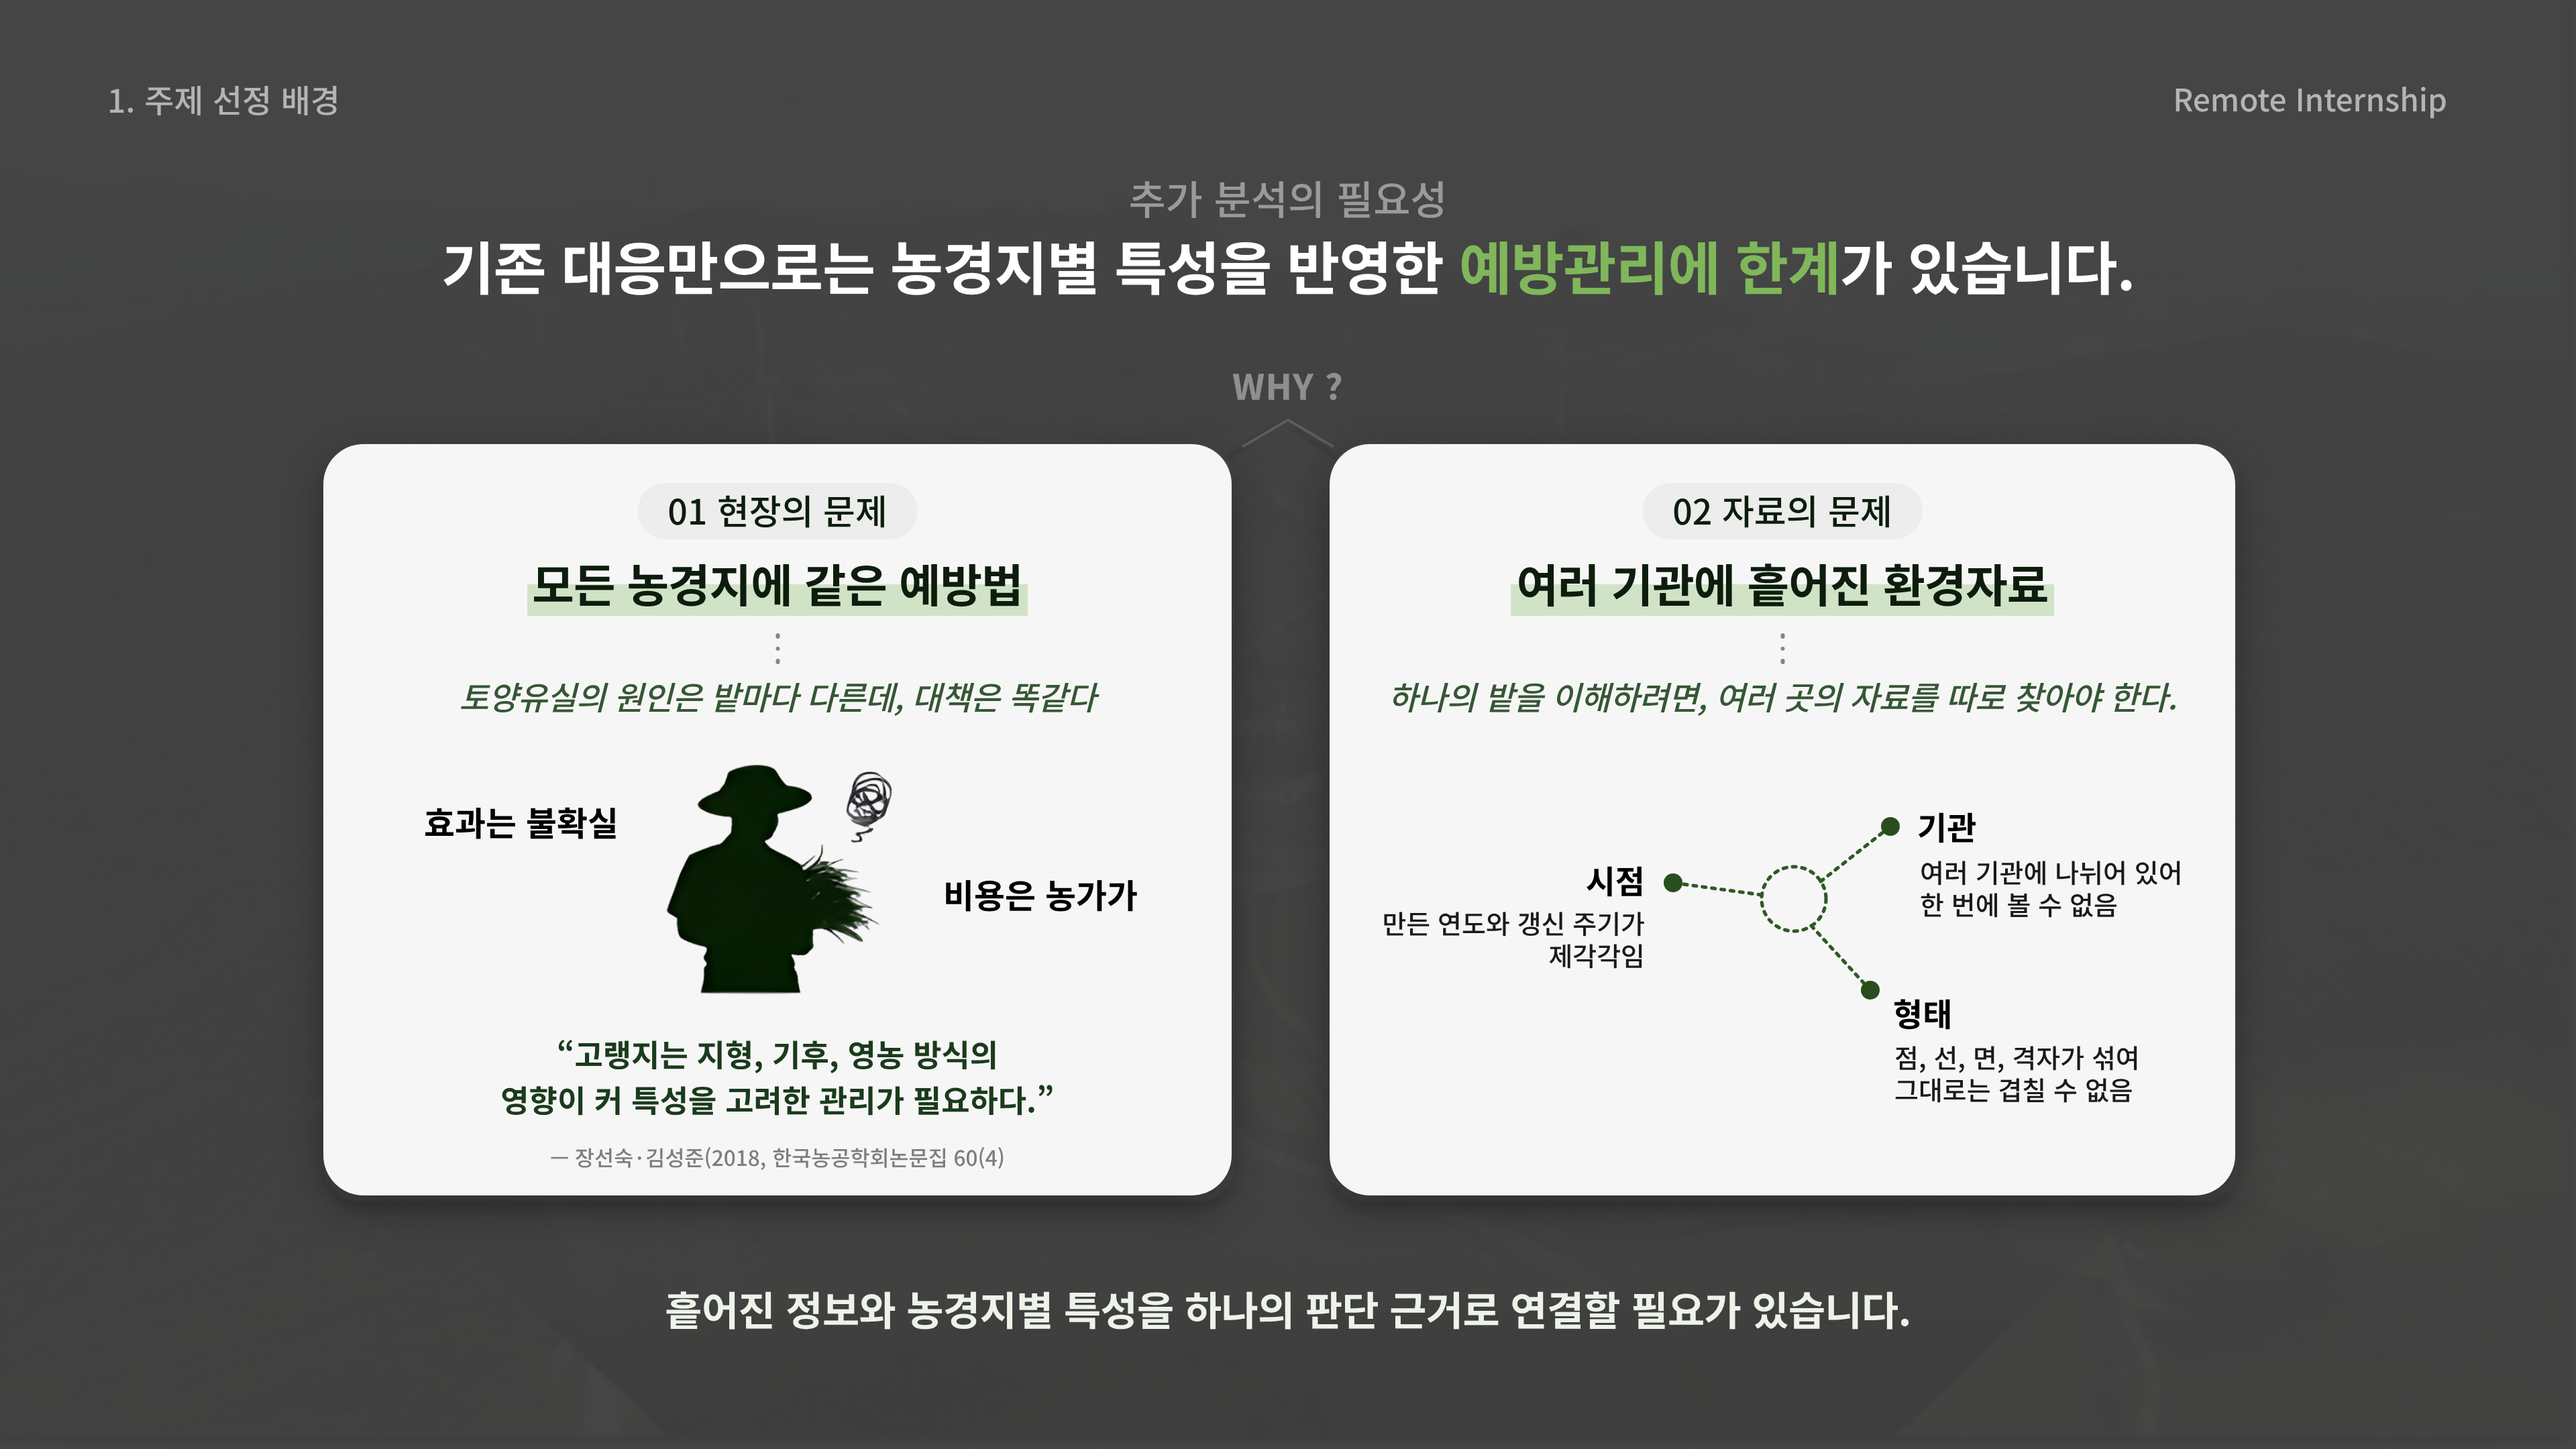
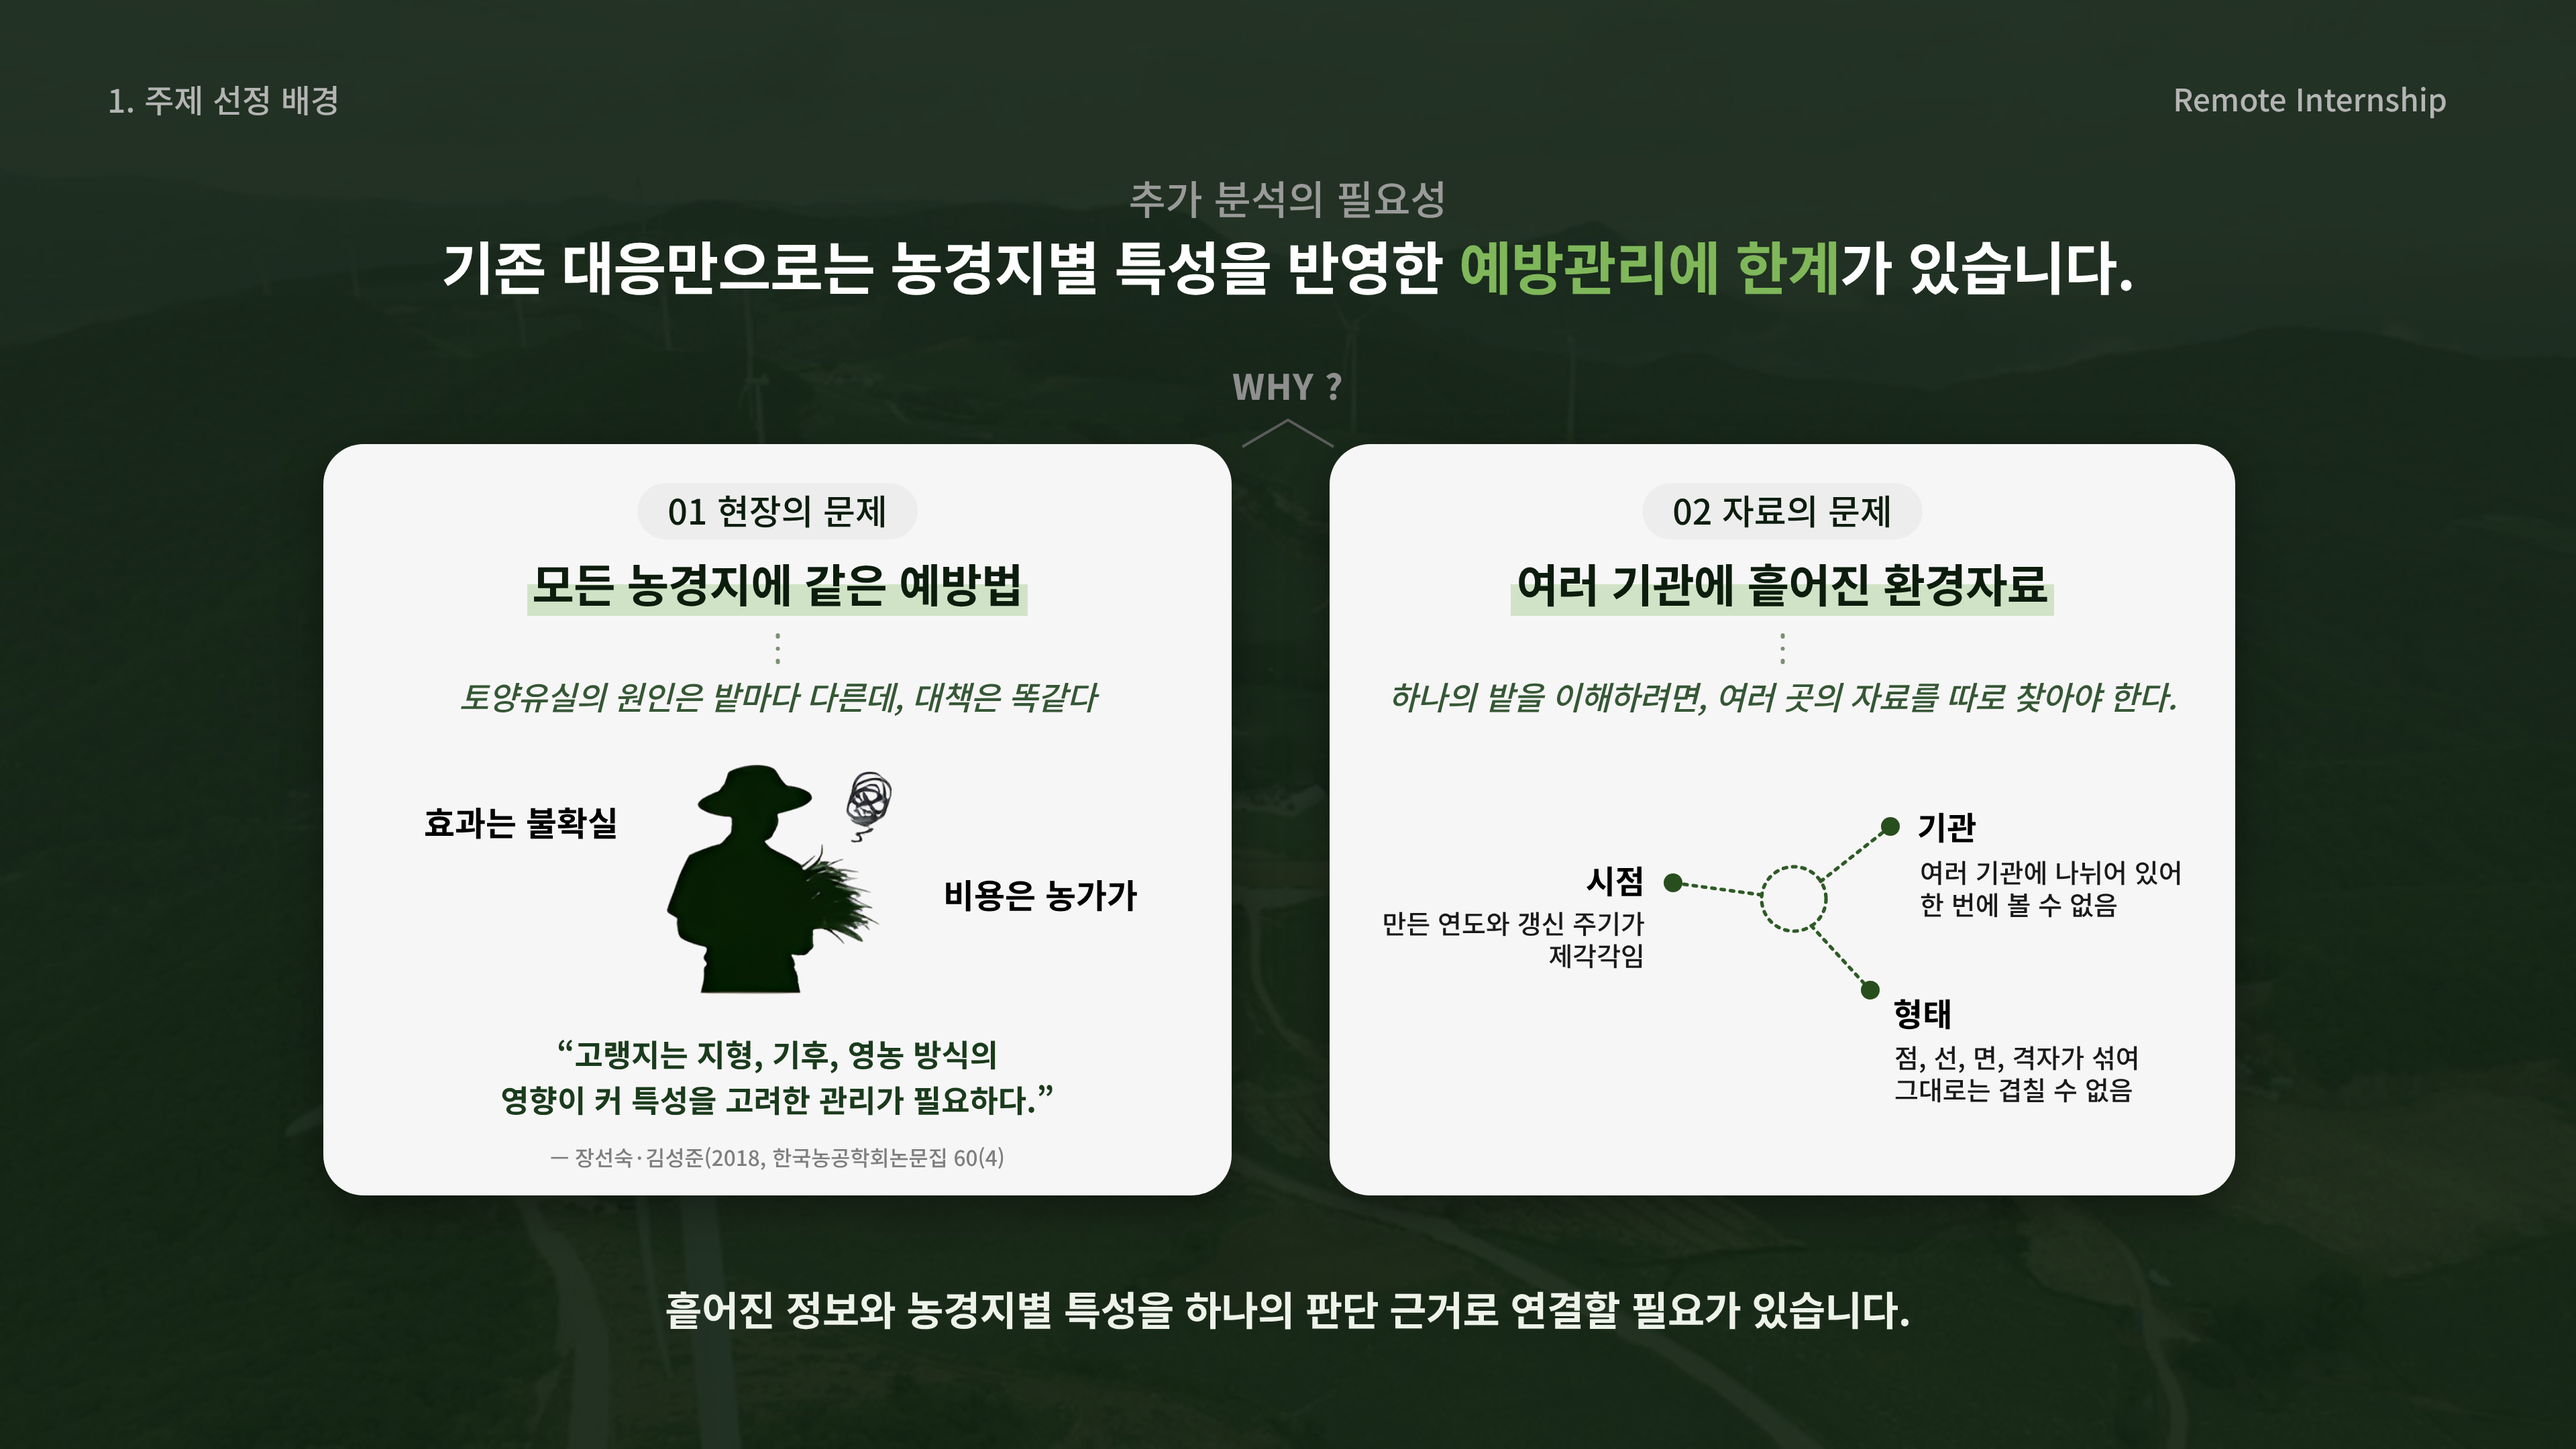
Show the previous slide's aerial photo faintly behind the WHY slide
Claude-Session: https://claude.ai/code/session_01AXtWMuJ4Mn9XoFya2k7XtN

diff --git a/slides/주제선정배경_WHY/slide.html b/slides/주제선정배경_WHY/slide.html
@@ -17,7 +17,7 @@
   html, body { background: var(--bg); }
   /* translucent dark layer over the original slide background, like the reference */
   .bgimg { position: absolute; inset: 0; background: url(img/bg_base.jpg) center / cover no-repeat; }
-  .dim { position: absolute; inset: 0; background: rgba(10,10,10,.74); }
+  .dim { position: absolute; inset: 0; background: rgba(8,8,8,.45); }
   body { width: 1920px; height: 1080px; overflow: hidden; position: relative;
          font-family: "Noto Sans KR", "Pretendard", sans-serif; -webkit-font-smoothing: antialiased; word-break: keep-all; }
   .abs { position: absolute; white-space: nowrap; }
